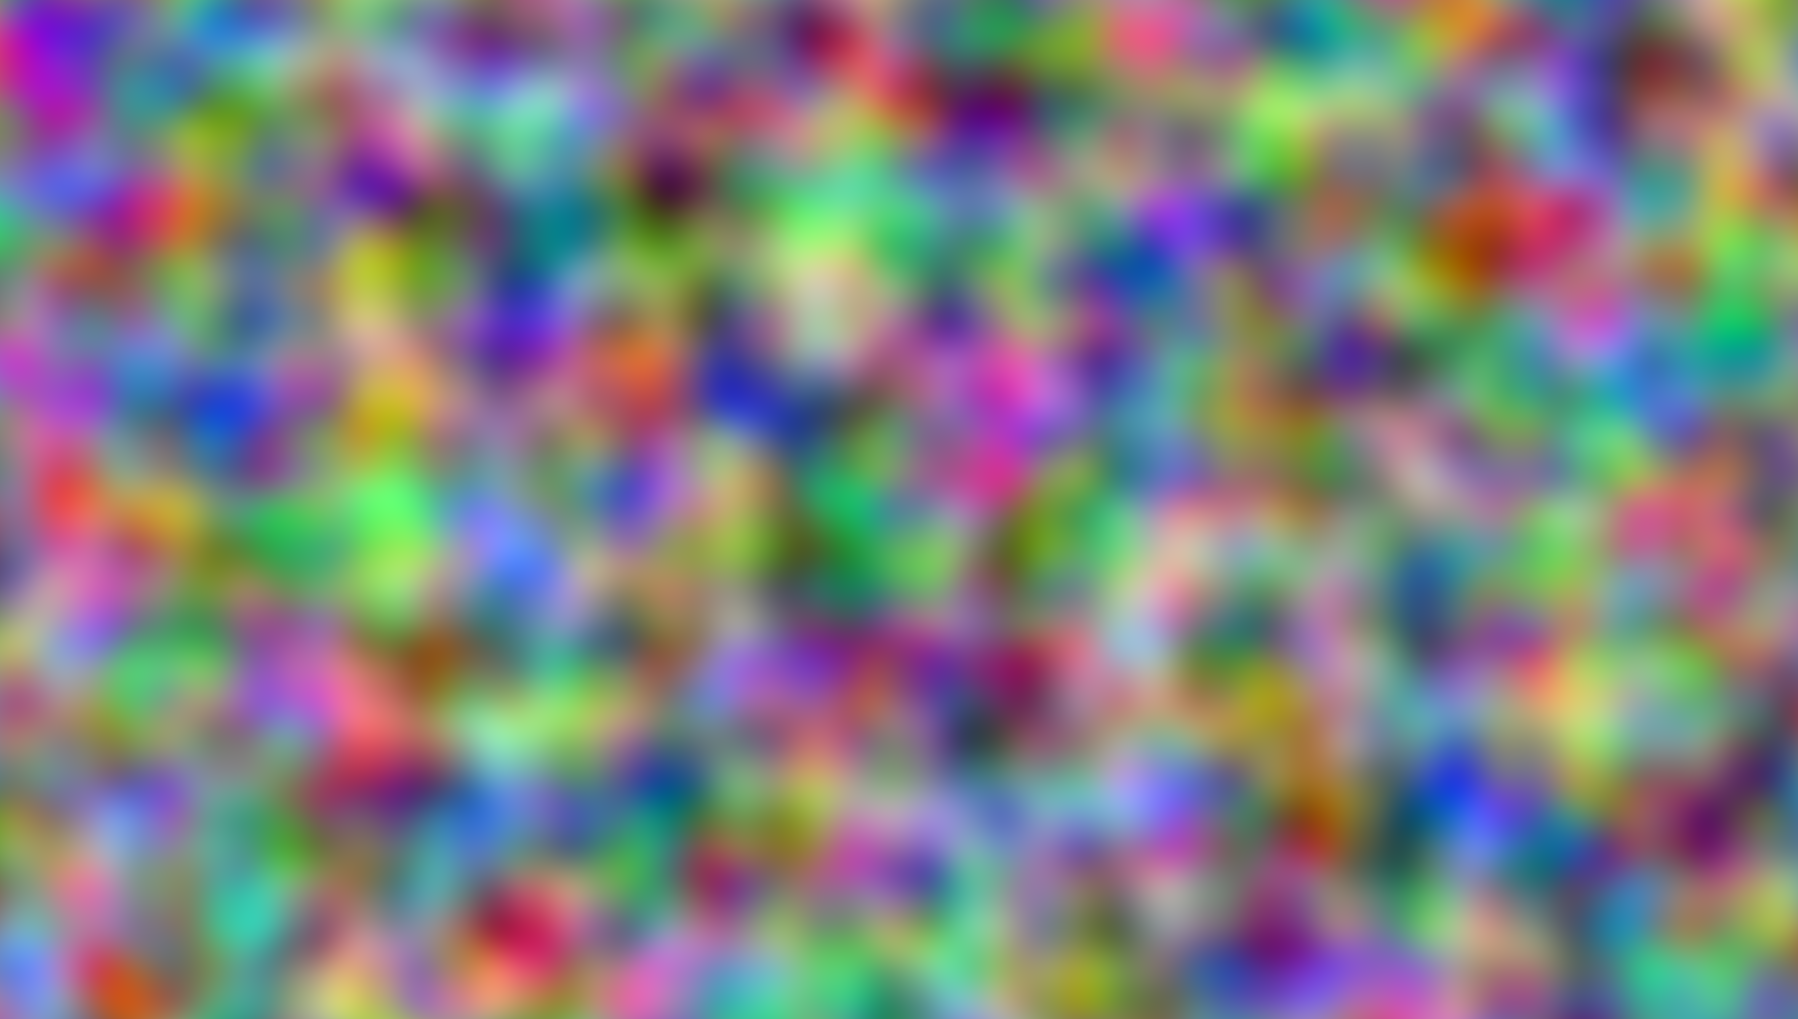
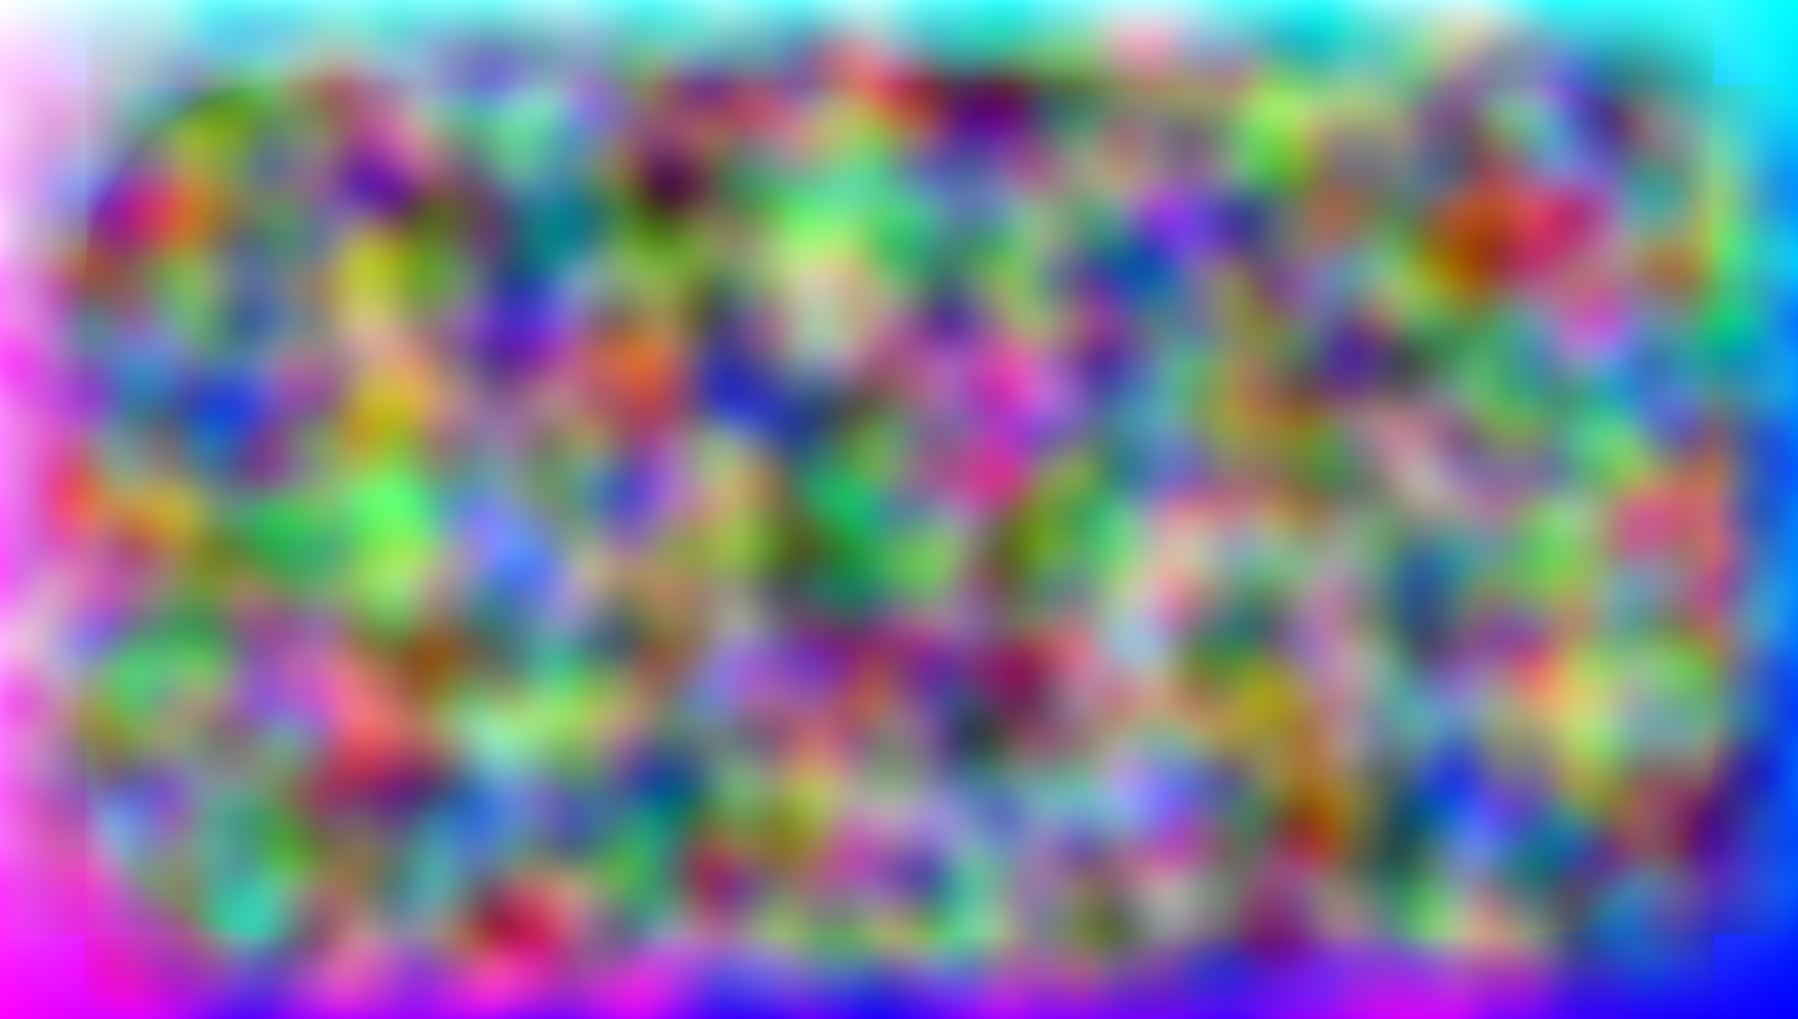
Constant Speed accross browsers, better and finer settings, project cleanup

Changed region(s): [[0.0, 0.0, 1.0, 1.0]]

diff --git a/pages/index.tsx b/pages/index.tsx
@@ -1,17 +1,21 @@
 import styles from '@/styles/Home.module.css'
 import {useEffect, useRef, useState} from "react";
 
-const pixelSize = 2;
-const pixelAcc = 0.05 / 255;
-const vMax = 0.65;
-const changeMapTimer = 1000;
-const pixelCounts = [3000,1000,100,1000,4000];
-const colors = ['rgb(171,130,180)', 'rgb(176,144,196)', 'rgb(133,185,204)',
-    'rgb(113,174,197)', 'rgb(155,230,250)'];
+const genRadius = 0.25;         // fraction of the screen minimum Dimension where the particles are generated
+const changeMapTimer = 700;
+const pixelSizes = [1.9, 1.925, 1.95, 1.975, 2];
+const pixelAccs = [0.000026, 0.000027, 0.000028, 0.000029, 0.00003];
+const vMaxs = [1.3, 1.35, 1.4, 1.45, 1.5];
+const pixelCounts = [3500,4000,2000,3500,5500];
+const colors = ['rgba(199,155,185,0.92)', 'rgba(220,180,215,0.91)', 'rgba(156,234,245,0.93)',
+    'rgba(165,224,246,0.95)', 'rgb(161,233,255)'];
 
 const PI255 = 0.8117;
 var width;
 var height;
+var minDim;
+var radiusGeneration;
+var lastTime = 0;
 const sinTable = [];
 var ctxImg;
 const ctxs = [];
@@ -24,8 +28,10 @@ export default function Home() {
     const canvas3 = useRef(null);
     const canvas4 = useRef(null);
     const canvas5 = useRef(null);
-    const [maps, setMaps] = useState([]);
     const counter = useRef(0);
+    const [maps, setMaps] = useState([]);
+    const [loading, setLoading] = useState(true);
+
 
     useEffect(() => {
         for (let angle = -Math.PI / 2; angle <= Math.PI / 2; angle += 0.01) {
@@ -35,6 +41,8 @@ export default function Home() {
         ctxImg = canvasImg.current.getContext('2d');
         width = window.innerWidth;
         height = window.innerHeight;
+        minDim = Math.min(width, height);
+        radiusGeneration = minDim * genRadius;
         canvasImg.current.width = width;
         canvasImg.current.height = height;
         canvas1.current.width = width;
@@ -69,7 +77,7 @@ export default function Home() {
         async function loadMaps() {
             //const mapNames = ['map1.png', 'map12.png', 'map2.png', 'map23.png', 'map3.png', 'map34.png', 'map4.png', 'map41.png'];
             //const mapNames = ['1.png', '12.png', '2.png', '23.png', '3.png', '34.png', '4.png', '41.png'];
-            const mapNames = ['a.png', 'ab.png', 'b.png', 'bc.png', 'c.png', 'cd.png', 'd.png', 'de.png', 'e.png', 'ef.png', 'f.png', 'fg.png', 'g.png', 'ga.png'];
+            const mapNames = ['a.png', 'aab.png', 'ab.png', 'abb.png', 'b.png', 'bbc.png', 'bc.png', 'bcc.png', 'c.png', 'ccd.png', 'cd.png', 'cdd.png', 'd.png',  'dde.png', 'de.png', 'dee.png', 'e.png', 'eef.png', 'ef.png', 'eff.png', 'f.png', 'ffg.png', 'fg.png', 'fgg.png', 'g.png', 'gga.png', 'ga.png', 'gaa.png'];
             const promises = mapNames.map(name => loadImage(`./noiseMaps/${name}`));
             await Promise.all(promises);
             setMaps(mps);
@@ -91,8 +99,13 @@ export default function Home() {
             for (let j = 0; j < 5; j++) {
                 pixels.push([]);
                 for (let i = 0; i < pixelCounts[j]; i++) {
-                    let x = Math.floor(Math.random() * width);
-                    let y = Math.floor(Math.random() * height);
+                    let x = 0;
+                    let y = 0;
+                    do {
+                        x = width/2 - radiusGeneration + Math.floor(Math.random() * 2 * radiusGeneration);
+                        y = height/2 -  radiusGeneration + Math.floor(Math.random() * 2 * radiusGeneration);
+                    } while (Math.hypot(x - width/2, y - height/2) >  radiusGeneration);
+
                     pixels[j].push({
                         x: x,
                         y: y,
@@ -103,12 +116,15 @@ export default function Home() {
                 ctxs[j].fillStyle = colors[j];
             }
             ctxImg.clearRect(0, 0, width, height);
-            update();
+            setLoading(false);
+            update(0);
         }
     },[maps]);
 
 
-    const update = () => {
+    const update = (time) => {
+        const dt = time - lastTime;
+        lastTime = time;
         const map = maps[counter.current % maps.length];
 
         for (let j = 0; j < 5; j++) {
@@ -127,21 +143,21 @@ export default function Home() {
                 const blueA = map[index + 2];
                 const angleX =  Math.round(redX / PI255);
                 const angleY = Math.round(greenY / PI255);
-                p.ax = pixelAcc * blueA * sinTable[angleX];
-                p.ay = pixelAcc * blueA * sinTable[angleY];
+                p.ax = pixelAccs[j] * blueA * sinTable[angleX];
+                p.ay = pixelAccs[j] * blueA * sinTable[angleY];
 
-                p.vx = p.vx + p.ax;
-                p.vy = p.vy + p.ay;
+                p.vx = p.vx + p.ax * dt;
+                p.vy = p.vy + p.ay * dt;
                 //update velocity without going over or below max velocity
-                if (p.vx > vMax) {
-                    p.vx = vMax;
-                } else if (p.vx < -vMax) {
-                    p.vx = -vMax;
+                if (p.vx > vMaxs[j]) {
+                    p.vx = vMaxs[j];
+                } else if (p.vx < -vMaxs[j]) {
+                    p.vx = -vMaxs[j];
                 }
-                if (p.vy > vMax) {
-                    p.vy = vMax;
-                } else if (p.vy < -vMax) {
-                    p.vy = -vMax;
+                if (p.vy > vMaxs[j]) {
+                    p.vy = vMaxs[j];
+                } else if (p.vy < -vMaxs[j]) {
+                    p.vy = -vMaxs[j];
                 }
 
                 // Update the position of the pixel based on the velocity
@@ -163,7 +179,7 @@ export default function Home() {
                     p.vy *= -1;
                 }
 
-                ctxs[j].fillRect(p.x, p.y, pixelSize, pixelSize);
+                ctxs[j].fillRect(p.x, p.y, pixelSizes[j], pixelSizes[j]);
             }
         }
 
@@ -181,11 +197,18 @@ export default function Home() {
     return (
         <div>
             <canvas ref={canvasImg} className={styles.backLayer}/>
-            <canvas ref={canvas1} className={styles.layer1}/>
-            <canvas ref={canvas2} className={styles.layer2}/>
-            <canvas ref={canvas3} className={styles.layer3}/>
-            <canvas ref={canvas4} className={styles.layer4}/>
-            <canvas ref={canvas5} className={styles.layer5}/>
+            <div className={styles.blob}/>
+            <div className={styles.blur}/>
+            <canvas ref={canvas1} className={styles.layer}/>
+            <canvas ref={canvas2} className={styles.layer}/>
+            <canvas ref={canvas3} className={styles.layer}/>
+            <canvas ref={canvas4} className={styles.layer}/>
+            <canvas ref={canvas5} className={styles.layer}/>
+            {loading ?
+                <div className={styles.loading}>LOADING</div>
+                :
+                <></>
+            }
         </div>
     )
 }

diff --git a/styles/Home.module.css b/styles/Home.module.css
@@ -4,9 +4,33 @@
     left: 0;
     width: 100%;
     height: 100%;
-    background: linear-gradient(90deg, rgba(161,207,199,255) 0%, rgba(173,212,207,255) 46%, rgba(188,215,219,255) 100%);
+    background: linear-gradient(90deg, rgb(160, 210, 200) 0%, rgb(168, 215, 209) 46%, rgb(155, 199, 195) 100%);
 }
-.layer1 {
+
+.blob {
+    background-color: white;
+    height: 60vw;
+    aspect-ratio: 1;
+    position: absolute;
+    border-radius: 50%;
+    left: 50%;
+    top: 50%;
+    translate: -50% -50%;
+    background: #4c9d94;
+    filter: blur(2px);
+    opacity: 0.65;
+    animation: move-blob 2400s infinite, change-color 8s infinite;
+}
+
+.blur {
+    height: 100%;
+    width: 100%;
+    position: absolute;
+    z-index: 0;
+    backdrop-filter: blur(12vmax);
+}
+
+.layer {
     position: absolute;
     top: 0;
     left: 0;
@@ -14,38 +38,109 @@
     height: 100%;
     background: transparent;
 }
-.layer2 {
+
+.loading {
     position: absolute;
+    display: flex;
+    align-items: center;
+    justify-content: center;
     top: 0;
     left: 0;
     width: 100%;
     height: 100%;
-    background: transparent;
+    background-color: #365453;
+    font-family: sans-serif;
+    font-size: 1.5rem;
+    color: white;
+    font-weight: 600;
+    text-align: center;
+    z-index: 1;
 }
-.layer3 {
-    position: absolute;
-    top: 0;
-    left: 0;
-    width: 100%;
-    height: 100%;
-    background: transparent;
+
+@keyframes move-blob {
+    0% {
+        top: -10%;
+        left: 50%;
+    }
+    4% {
+        top: -10%;
+        left: -10%;
+    }
+    8% {
+        top: 80%;
+        left: -20%;
+    }
+    12% {
+        top: 120%;
+        left: 30%;
+    }
+    16% {
+        top: 140%;
+        left: 60%;
+    }
+    20% {
+        top: -30%;
+        left: 80%;
+    }
+    24% {
+        top: 100%;
+        left: 100%;
+    }
+    28% {
+        top: -30%;
+        left: 30%;
+    }
+    32% {
+        top: -40%;
+        left: 120%;
+    }
+    36% {
+        top: 110%;
+        left: 100%;
+    }
+    40% {
+        top: 100%;
+        left: -20%;
+    }
+    44% {
+        top: -40%;
+        left: -40%;
+    }
+    48% {
+        top: -10%;
+        left: 40%;
+    }
+    52% {
+        top: 80%;
+        left: 50%;
+    }
+    56% {
+        top: 50%;
+        left: 70%;
+    }
+    60% {
+        top: -10%;
+        left: 50%;
+    }
+    64% {
+        top: 30%;
+        left: 10%;
+    }
+    100% {
+        top: -10%;
+        left: 50%;
+    }
 }
-.layer4 {
-    position: absolute;
-    top: 0;
-    left: 0;
-    width: 100%;
-    height: 100%;
-    background: transparent;
-}
-.layer5 {
-    position: absolute;
-    top: 0;
-    left: 0;
-    width: 100%;
-    height: 100%;
-    background: transparent;
-}
-.shadow {
-    background: #7EA6A0;
+
+
+@keyframes change-color {
+    0% {
+        background-color: #4C9D94FF;
+    }
+    50% {
+        background-color: #6ab4af;
+    }
+    100% {
+        background-color: #4C9D94FF;
+    }
 }

diff --git a/noise_gen/generate_edges.js b/noise_gen/generate_edges.js
@@ -3,10 +3,20 @@ import fs from 'fs';
 
 const width = 1798; // replace with your image width
 const height = 1019; // replace with your image height
+const dimMin = Math.min(width, height);
+const edge = dimMin / 12;
+const rad = Math.floor(dimMin / 5);
+const cent = rad + edge;
 
 const canvas = createCanvas(width, height);
 const ctx = canvas.getContext('2d');
 const imgData = ctx.createImageData(width, height);
+
+function calcEdgeValue(distEdge, origValue, increase) {
+    if (increase) {
+
+    }
+}
 
 function drawEdges(map) {
     loadImage('./rawMaps/' + map).then((mapImg) => {
@@ -14,10 +24,6 @@ function drawEdges(map) {
         ctx.drawImage(mapImg, 0, 0, width, height);
         const imageData = ctx.getImageData(0, 0, width, height);
 
-        const dimMin = Math.min(width, height);
-        const edge = dimMin / 12;
-        const rad = Math.floor(dimMin / 5);
-        const cent = rad + edge;
 
         for (let x = 0; x < width; x++) {
             for (let y = 0; y < height; y++) {

diff --git a/noise_gen/average_maps.js b/noise_gen/average_maps.js
@@ -51,7 +51,8 @@ function combineMaps(image1, image2) {
 
 
 async function combineOnList() {
-    const mapNames = ['a', 'b', 'c', 'd', 'e', 'f', 'g'];
+    //const mapNames = ['a', 'b', 'c', 'd', 'e', 'f', 'g'];
+    const mapNames = ['a', 'ab', 'b', 'bc', 'c', 'cd', 'd', 'de', 'e', 'ef', 'f', 'fg', 'g', 'ga'];
     //const mapNames = ['1', '2', '3', '4'];
     const promises = mapNames.map((name, i) => combineMaps(name, mapNames[i < mapNames.length - 1 ? i + 1 : 0]));
     await Promise.all(promises);

diff --git a/styles/globals.css b/styles/globals.css
@@ -6,6 +6,7 @@
   box-sizing: border-box;
   padding: 0;
   margin: 0;
+  overflow-x: hidden;
 }
 
 html, body {
@@ -15,6 +16,7 @@ html, body {
 
 body {
   background-color: black;
+  overflow-x: hidden;
 }
 
 a {
@@ -22,3 +24,7 @@ a {
   text-decoration: none;
 }
 
+
+::-webkit-scrollbar {
+  display: none;
+}
